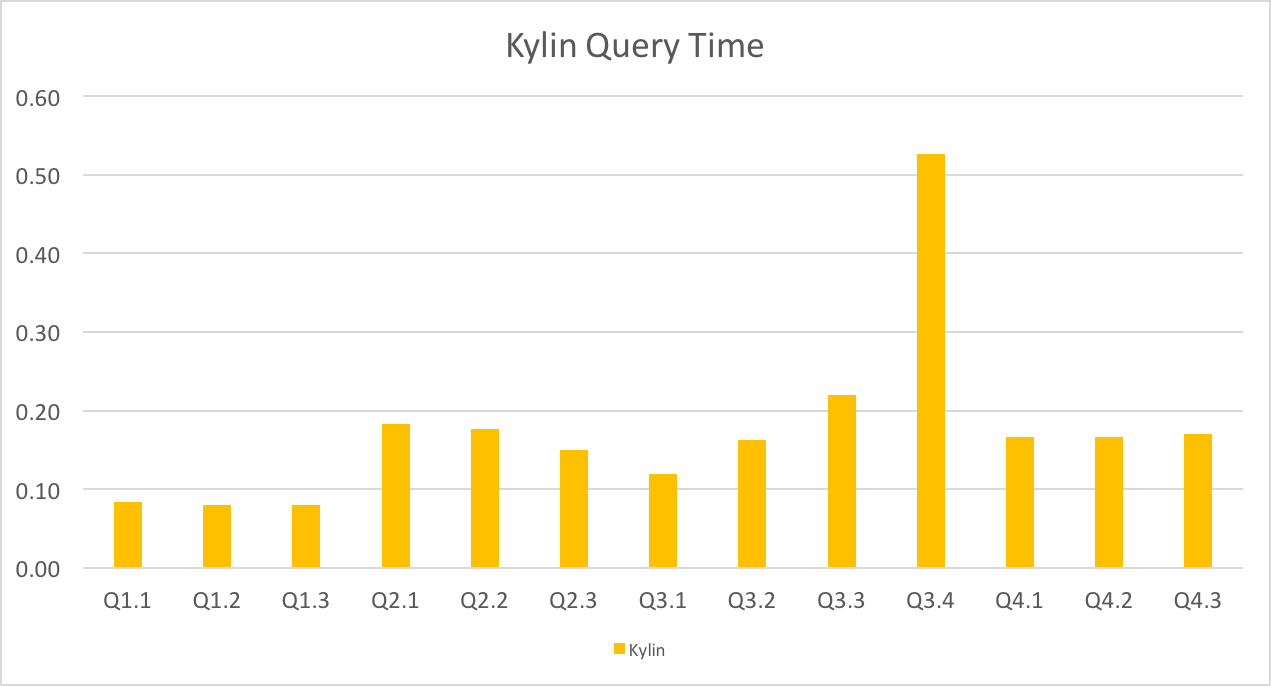
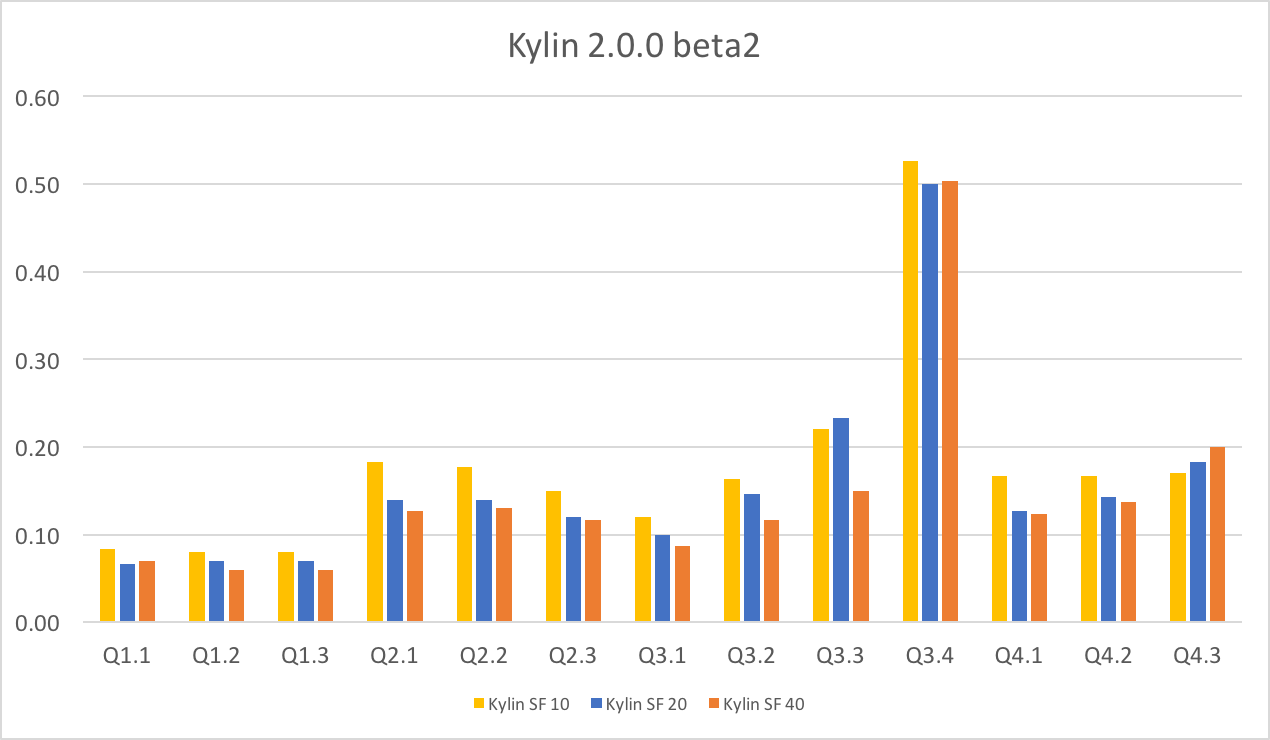
more test on different scale 10/20/40

diff --git a/README.md b/README.md
@@ -252,24 +252,18 @@ cluster info:
 ```shell
 4 nodes
 32 cpu, 100G memory for each node
-scale factor 10
 ```
-spark config: 
+<!--spark config: 
 ```shell
 spark.executor.cores 5
 spark.executor.instances 12
 spark.executor.memory 8g
 spark.driver.memory 8g
-```
+```-->
 version:
 ```shell
 kylin 2.0.0 beta2
 ```
 
-#### Result of q1.1~q4.3
+#### Result of Kylin 2.0.0 beta2
 ![](pictures/ssb_result_default.png)
-
-
-
-
-
